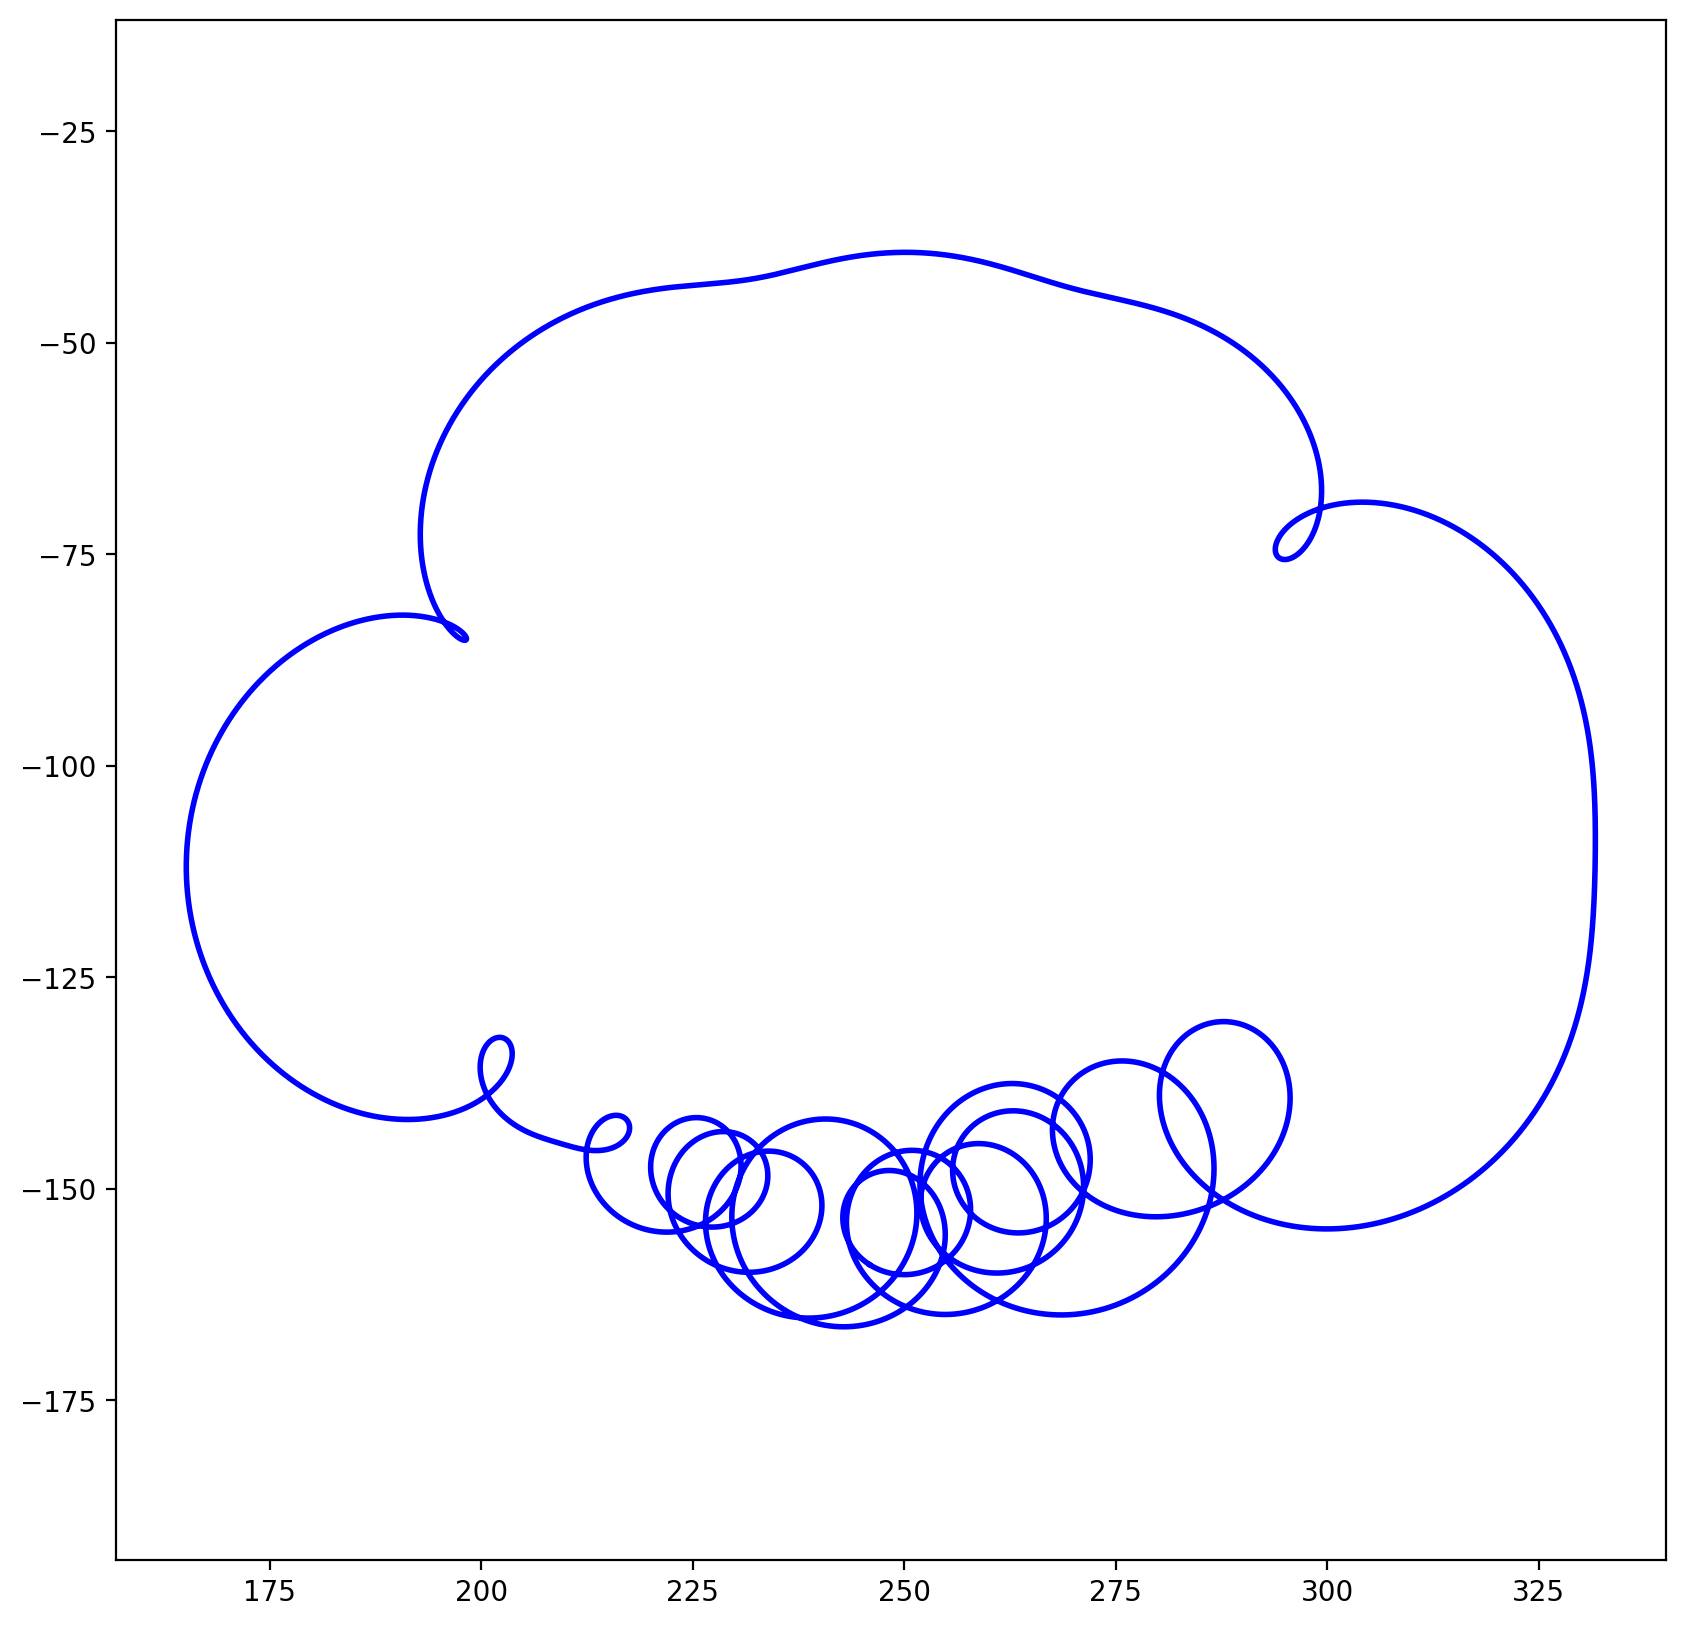
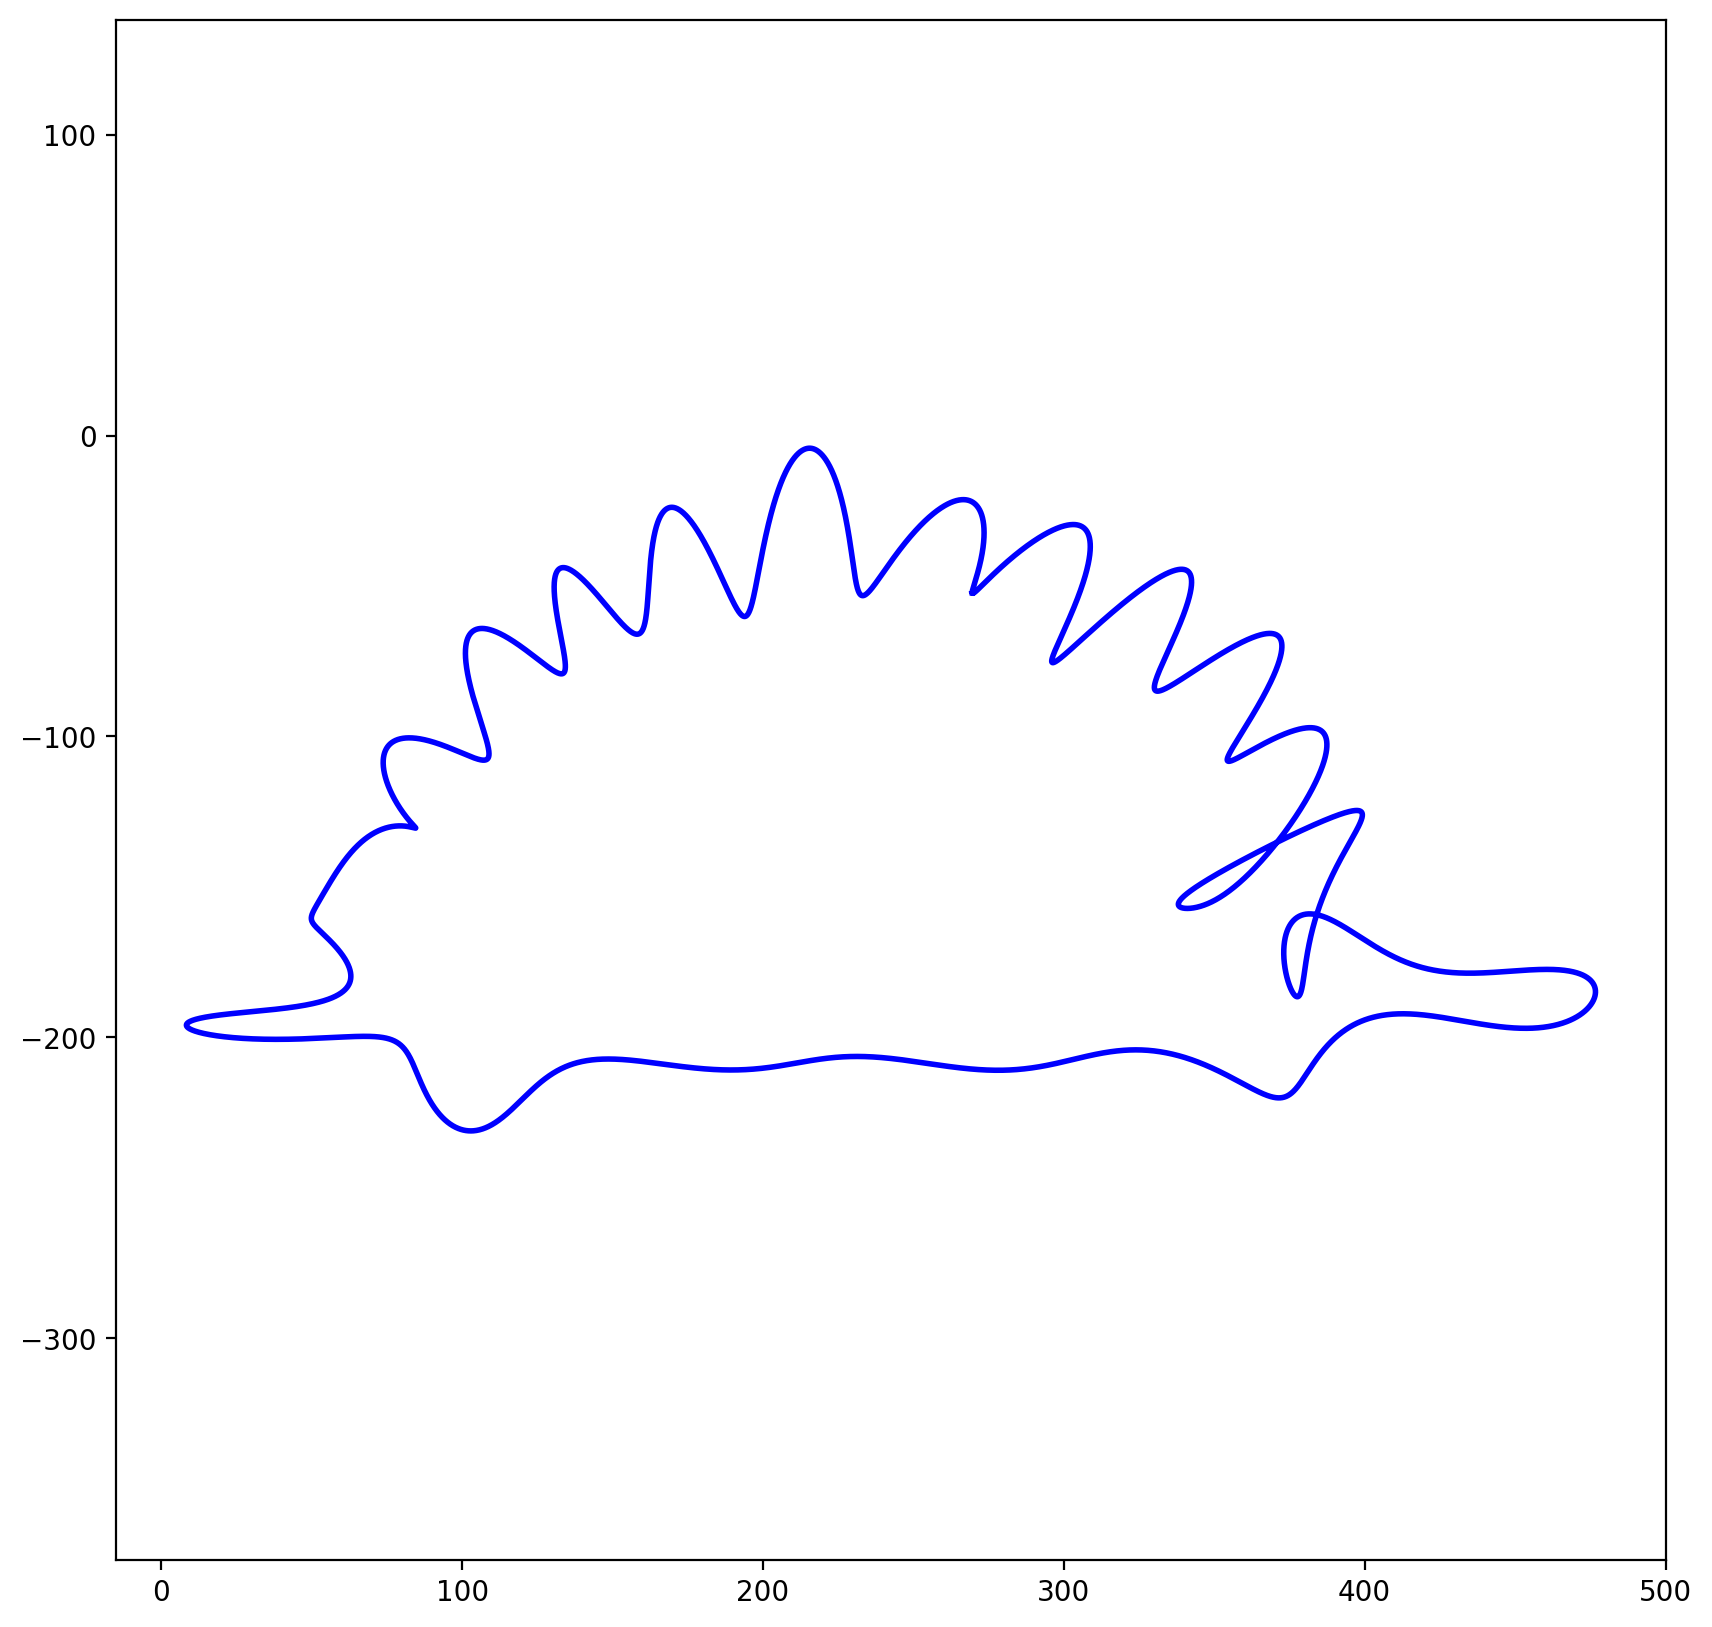
commit

diff --git a/MDM single line.py b/MDM single line.py
@@ -1,0 +1,92 @@
+import numpy as np
+import matplotlib.pyplot as plt
+from svgpathtools import svg2paths
+import svgwrite
+from pathlib import Path
+
+base_dir = Path.cwd()
+
+figure_folder = base_dir / "outputs" / "fourier_figures"
+figure_folder.mkdir(parents=True, exist_ok=True) 
+
+npy_path = base_dir / "outputs" / "HedgehogMDM" / "HedgehogMDM_output_polyline.npy"
+svg_path = base_dir / "outputs" / "HedgehogMDM" / "HedgehogMDM_output_polyline.svg"
+
+# Ensure output directory exists
+svg_path.parent.mkdir(parents=True, exist_ok=True)
+
+# Load numpy array and convert to points list
+npy_coords = np.load(npy_path)
+points = [
+    (float(c.real), float(c.imag)) if isinstance(c, complex) else (float(c[0]), float(c[1]))
+    for c in npy_coords
+]
+
+# Write out the .svg file
+dwg = svgwrite.Drawing(str(svg_path), size=( "2000px", "2000px" ))
+dwg.add(dwg.polyline(points=points, stroke="black", fill="none", stroke_width="1"))
+dwg.save()
+# -----------------------------------------------
+
+
+paths, attributes = svg2paths(svg_path)
+
+number_of_frequencies_kept_2 = 50
+
+
+complex_coords = []
+
+for path in paths:
+    
+
+    for i in range(10000):
+        t = i / 10000        
+        point = path.point(t)    #  SVG for the exact (X, Y) coordinate at that specific fraction
+        complex_coords.append(point)  # Save that coordinate to list
+
+
+complex_coords = np.array(complex_coords)
+
+
+
+
+fourier_descriptors = np.fft.fft(complex_coords) #converting to fourier
+
+
+
+fourier_filtered = fourier_descriptors.copy()
+
+
+#keep_low_frequencies = 0.2
+#n = len(fourier_filtered)
+#keep_count = int(n * keep_low_frequencies)
+
+
+number_of_frequencies_kept = number_of_frequencies_kept_2 // 2
+fourier_filtered[number_of_frequencies_kept:-number_of_frequencies_kept] = 0
+#fourier_filtered[number_of_frequencies_kept:] = 0
+
+new_complex_coords = np.fft.ifft(fourier_filtered) #reverse fourier
+
+
+orig_x = [c.real for c in complex_coords]
+orig_y = [c.imag for c in complex_coords]
+
+#complex back into x and y
+smooth_x = [c.real for c in new_complex_coords]
+smooth_y = [c.imag for c in new_complex_coords]
+
+# Plotting both original and new
+plt.figure(figsize=(10, 10))
+#plt.plot(orig_x, orig_y, color='red',  linewidth=4)
+plt.plot(smooth_x, smooth_y , color='blue', linewidth=2)
+
+#plt.gca().invert_yaxis()  # Flip it as keeps being upside down
+plt.axis('equal') #no stretch
+
+
+plt.savefig(figure_folder / f"HedgeHog_{number_of_frequencies_kept_2}.png", dpi=200, bbox_inches="tight")
+
+
+
+plt.show()

diff --git a/Plotting/MDM single line.py b/Plotting/MDM single line.py
@@ -5,16 +5,16 @@ import svgwrite
 from pathlib import Path
 
 base_dir = Path.cwd()
-
+print(base_dir)
+for f in base_dir.rglob("*.npy"):
+    print(f)
 figure_folder = base_dir / "outputs" / "fourier_figures"
 figure_folder.mkdir(parents=True, exist_ok=True) 
 
 
-npy_path = base_dir / "outputs" / "HedgehogMDM" / "HedgehogMDM_output_polyline.npy"
-svg_path = base_dir / "outputs" / "HedgehogMDM" / "HedgehogMDM_output_polyline.svg"
+npy_path = base_dir / "images" / "Bristol_Logo" / "blogo_outline" / "blogo_outline_output_polyline.npy"
+svg_path = base_dir / "images" / "Bristol_Logo" / "blogo_outline" / "blogo_outline_output_polyline.svg"
 
-# Ensure output directory exists
-svg_path.parent.mkdir(parents=True, exist_ok=True)
 
 # Load numpy array and convert to points list
 npy_coords = np.load(npy_path)
@@ -32,7 +32,7 @@ dwg.save()
 
 paths, attributes = svg2paths(svg_path)
 
-number_of_frequencies_kept_2 = 50
+number_of_frequencies_kept_2 = 10000
 
 
 complex_coords = []
@@ -64,8 +64,8 @@ fourier_filtered = fourier_descriptors.copy()
 
 
 number_of_frequencies_kept = number_of_frequencies_kept_2 // 2
-#fourier_filtered[number_of_frequencies_kept:-number_of_frequencies_kept] = 0
-fourier_filtered[number_of_frequencies_kept:] = 0
+fourier_filtered[number_of_frequencies_kept:-number_of_frequencies_kept] = 0
+#fourier_filtered[number_of_frequencies_kept:] = 0
 
 new_complex_coords = np.fft.ifft(fourier_filtered) #reverse fourier
 
@@ -86,7 +86,7 @@ plt.plot(smooth_x, smooth_y , color='blue', linewidth=2)
 plt.axis('equal') #no stretch
 
 
-plt.savefig(figure_folder / f"HedgeHog2_{number_of_frequencies_kept_2}.png", dpi=200, bbox_inches="tight")
+plt.savefig(figure_folder / f"blogo_{number_of_frequencies_kept_2}.png", dpi=200, bbox_inches="tight")
 
 
 
